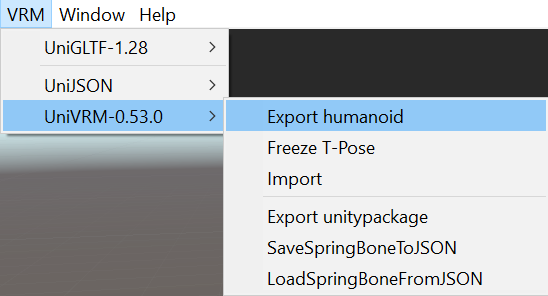
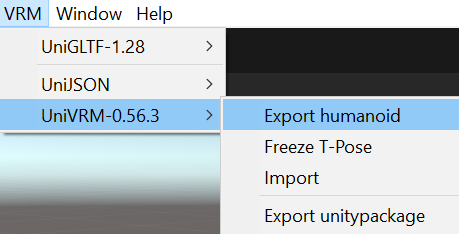
Update UniVRM install and images

diff --git a/content/en/docs/univrm/univrm_install.md b/content/en/docs/univrm/univrm_install.md
@@ -8,42 +8,53 @@ weight: 1
 
 ## Unity Version
 
-UniVRM supports Unity5.6 and later versions.
+Starting from `UniVRM-0.56`, UniVRM supports `Unity-2018.4LTS+` `.Net4.x`.
 
-## Installation
+To install UniVRM with Unity Package Manager, please refer to [Install UniVRM with UPM](../univrm_upm)
 
-Download the latest unitypackage (UniVRM-0.XX) from [UniVRM/releases](https://github.com/vrm-c/UniVRM/releases) and import it into the current project (``Assets -> Import Package -> Custom Package``). The imported files will be in ``../Assets/VRM``. **To update UniVRM to a newer version, deleting the previously created VRM folder before package import is recommended**.
+## unitypackage
 
-|{{< img src="images/vrm/package_import.png" alt="package_import" >}}|
+Get unity package in https://github.com/vrm-c/UniVRM/releases.
+
+The package name will look like this: `UniVRM-0.XX.X_XXXX.unitypackage`
+
+## Before Installation
+
+* Create a new Unity project (`Unity-2018.4LTS+`)
+* Show Console: click `clear` button on the upper-left of the window to see if any error message (in red) left before installation.
+
+{{< img src="images/vrm/show_console.jpg"  width="500" alt="show console">}}
+
+{{< img src="images/vrm/clear_console.jpg" width="500" alt="clear console" >}}
+<hr>
+
+* Go to `Linear``ProjectSettings` - `Player` - `Other Settings` - `Rendering` - `ColorSpace` and set `ColorSpace` to `Linear` (recommended setting)
+
+{{< img src="images/vrm/linear_setting.jpg" width="600" alt="linear setting">}}
+
+### Install UniVRM in an Existing Project
+
+* Go to `ProjectSettings` - `Player` - `Other Settings` - `Scripting Runtime Version` and set `Scripting Runtime Version` to `.Net4.X equivalent` (Unity 2018). 
+* If old UniVRM version exists, please delete `Assets/VRM` before installation
+
+## Import unitypackage
+
+Go to `Assets` - `Import Package` - `Custom Package` and select `UniVRM-0.XX.X_XXXX.unitypackage`.
+
+The two folders: `Assets/VRM` and `Assets/VRMShaders` will be imported into the Unity project.
+
+|{{< img src="images/vrm/package_import.png" width="350" alt="package_import" >}}|
 |-----|
-|Import UniVRM package|
+|Import Unity Package|
 
-## Stop AssetPostProcessor
+## Check if UniVRM has been imported successfully
 
-The importer of UniVRM is implemented with``AssetPostprocessor``.
-There may be cases where AssetPostProcessor is inconvenient when including UniVRM in Unity project. We have added a symbol to invalidate this (from v0.39).
+if UniVRM import successes, VRM menu will be displayed on the top:
 
-Set``VRM_STOP_ASSETPOSTPROCESSOR``in``Edit - ProjectSettings - Player``--->``Other Settings - Scripting Define Symbols``.
+{{< img src="images/vrm/vrm_menu.jpg" alt="vrm menu" >}}
+<hr>
 
-|{{< img src="images/vrm/stop_assetpostprocessor.png" >}}|
-|-----|
-|Stop AssetPostProcessor|
+If menu does not show up:
 
-## Shader option
-
-|{{< img src="images/vrm/shaders.png" >}}|
-|-----|
-|The shaders provided in UniVRM|
-
-## Shader preloading setting
-
-**There is no need to move shader into Resources folder (VRM/Resources) since v0.36.**
-
-Please set up project as follows:
-
-|{{< img src="images/vrm/graphics_setting.png" >}}|
-|-----|
-|Editor - Project Settings - Graphics - Shader preloading|
-
-|{{< img src="images/vrm/shader_preloading.png" >}}|
-|-----|
+* Check if `.Net4.X equivalent` has been selected (`ProjectSettings` - `Player` - `Other Settings` - `Scripting Runtime Version`)
+* Open Console and check if any error (message in red) occurs

diff --git a/content/ja/docs/univrm/univrm_upm.md b/content/ja/docs/univrm/univrm_upm.md
@@ -1,0 +1,81 @@
+---
+title: "UPMでUniVRMをインストールする"
+date: 2020-07-08T11:42:13+09:00
+url: "/univrm/univrm_upm/"
+weight: 3
+---
+
+## UniVRM-0.XX の UnityPackage
+
+UniVRM-0.56から、 UniVRMはUnityPackageManagerでインポートできるようになった。
+
+github リポジトリのルート以外に `package.json` を配置する機能を使っているので、
+`Unity 2019.3.4f1以降` が必要です。
+
+### 導入方法
+
+UnityPackageManagerのWindow
+
+{{< img src="images/vrm10/menu_packagemanager.jpg" >}}
+<hr>
+
+`add package from git URL`
+
+{{< img src="images/vrm10/from_git.jpg" >}}
+<hr>
+
+新しいUniVRMバージョンがリリースされる時に、このバージョンに関連するgit urlsを公開します。
+
+たとえば、[v0.56.3](https://github.com/vrm-c/UniVRM/releases/tag/v0.56.3) のgit urlは次のとおりです：
+
+* `https://github.com/vrm-c/UniVRM.git?path=/Assets/VRMShaders#v0.56.3`
+* `https://github.com/vrm-c/UniVRM.git?path=/Assets/VRM#v0.56.3` => VRMShaders に依存
+
+パッケージ同士の依存関係を自動でダウンロードしてくれる機能は無いので、以上の git url を順に追加してください。
+
+バージョン番号を変更することで、お好きなバージョンに切り替えることができます。
+
+#### もしくは、 Packages/manifest.json に直接コピーペーストする。
+
+以下の内容を追記してください（[v0.56.3](https://github.com/vrm-c/UniVRM/releases/tag/v0.56.3)の例)。
+
+```json
+{
+  "dependencies": {
+    // ...
+    "com.vrmc.vrmshaders": "https://github.com/vrm-c/UniVRM.git?path=/Assets/VRMShaders#v0.56.3",
+    "com.vrmc.univrm": "https://github.com/vrm-c/UniVRM.git?path=/Assets/VRM#v0.56.3",
+    // ...
+}
+```
+
+以下の "lock" はUnityが自動で更新するので、編集する必要はありません。
+
+```json
+  "lock": {
+    "com.vrmc.vrmshaders": {
+      "revision": "v0.56.3",
+      "hash": "3b68eb7f99bfe78ea9c83ea75511282ef1782f1a"
+    },
+    "com.vrmc.univrm": {
+      "revision": "v0.56.3",
+      "hash": "3b68eb7f99bfe78ea9c83ea75511282ef1782f1a"
+    }
+  }
+```
+
+ただし、特定のコミットに切り替える場合は、ハッシュ値を手動で変更できます。
+
+もしくは`dependencies`に特定のコミットに付きます。
+
+例：
+
+```json
+{
+  "dependencies": {
+    // ...
+    "com.vrmc.vrmshaders": "https://github.com/vrm-c/UniVRM.git?path=/Assets/VRMShaders#155acf354735288db0335878179f483901541851",
+    "com.vrmc.univrm": "https://github.com/vrm-c/UniVRM.git?path=/Assets/VRM#155acf354735288db0335878179f483901541851",
+    // ...
+}
+```

diff --git a/content/en/docs/univrm/univrm_upm.md b/content/en/docs/univrm/univrm_upm.md
@@ -1,0 +1,80 @@
+---
+title: "Install UniVRM with UPM"
+date: 2020-07-07T18:33:59+09:00
+url: "/en/univrm/univrm_upm/"
+weight: 3
+---
+
+## UniVRM-0.XX's UnityPackage
+
+Starting from UniVRM-0.56, UniVRM can be imported with Unity Package Manager.
+
+Requirement: `Unity 2019.3.4f1 or later version`.
+
+### How to use
+
+To open UPM, go to `Windows` -> `Package Manager`:
+
+{{< img src="images/vrm10/menu_packagemanager.jpg" >}}
+<hr>
+
+Select `add package from git URL` to import the target package specified by its git url.
+
+{{< img src="images/vrm10/from_git.jpg" >}}
+<hr>
+
+Whenever a new UniVRM version comes out, we will post git urls associated with this release. 
+
+For example, the git urls of [v0.56.3](https://github.com/vrm-c/UniVRM/releases/tag/v0.56.3) are:
+
+* `https://github.com/vrm-c/UniVRM.git?path=/Assets/VRMShaders#v0.56.3`
+* `https://github.com/vrm-c/UniVRM.git?path=/Assets/VRM#v0.56.3` => depends on VRMShaders
+
+Since there is no function that can automatically download the dependencies between packages, please add above git urls in order.
+
+By changing the version number, You can switch to different version as you wish.
+
+#### Add dependencies in Packages/manifest.json
+
+An alternative way is to add necessary dependencies right in Packages/manifest.json. Please copy and paste the following contents (example of [v0.56.3](https://github.com/vrm-c/UniVRM/releases/tag/v0.56.3)):
+
+```json
+{
+  "dependencies": {
+    // ...
+    "com.vrmc.vrmshaders": "https://github.com/vrm-c/UniVRM.git?path=/Assets/VRMShaders#v0.56.3",
+    "com.vrmc.univrm": "https://github.com/vrm-c/UniVRM.git?path=/Assets/VRM#v0.56.3",
+    // ...
+}
+```
+
+The hash values in `lock` can be updated automatically by Unity, there is no need to manually change them.
+
+However, if you want to switch to a specific commit, you can manually change the hash value.
+
+```json
+  "lock": {
+    "com.vrmc.vrmshaders": {
+      "revision": "v0.56.3",
+      "hash": "3b68eb7f99bfe78ea9c83ea75511282ef1782f1a"
+    },
+    "com.vrmc.univrm": {
+      "revision": "v0.56.3",
+      "hash": "3b68eb7f99bfe78ea9c83ea75511282ef1782f1a"
+    }
+  }
+```
+
+However, if you want to switch to the specific commit, you can manually change the hash value or append the specific commit in `dependencies`.
+
+Example:
+
+```json
+{
+  "dependencies": {
+    // ...
+    "com.vrmc.vrmshaders": "https://github.com/vrm-c/UniVRM.git?path=/Assets/VRMShaders#155acf354735288db0335878179f483901541851",
+    "com.vrmc.univrm": "https://github.com/vrm-c/UniVRM.git?path=/Assets/VRM#155acf354735288db0335878179f483901541851",
+    // ...
+}
+```

diff --git a/content/en/docs/vrm/how_to_make_vrm.md b/content/en/docs/vrm/how_to_make_vrm.md
@@ -61,7 +61,7 @@ We can see the Jaw and Eyes are assigned by the wrong components. As mentioned a
 ### 4. Adjust the model data and export it as VRM from menu（normalization processing）
 {{< img src="images/vrm/alicia_scene.png" >}}
 
-Now clcik the model in the Hierarchy window, you shall see sub-components attached to this model. Please click any of them. We are going to check and adjust the items listed below:
+Now click the model in the Hierarchy window, you shall see sub-components attached to this model. Please click any of them. We are going to check and adjust the items listed below:
 
 {{< img src="images/vrm/initial_position_rotation.jpg" width="800" height="450" alt="initial_position_rotation" >}}
 
@@ -89,13 +89,13 @@ Note that if the materials are not assigned or you want to change them, click th
 
 {{< img src="images/vrm/MToonMaterialSetting.png" width="700" height="800" alt="MToonMaterialSetting" >}}
 
-After adjustments are completed, select the model in `Hierarchy` window and export it from``VRM -> UniVRM-0.53.0 -> Export humanoid``.
+After adjustments are completed, select the model in `Hierarchy` window and export it from``VRM -> UniVRM-0.56.0 -> Export humanoid``.
 
 {{< img src="images/vrm/UniVRMExportHumanoid.png" width="400" height="225" alt="UniVRMExportHumanoid">}}
 
 Enter your name in the `Author` field and click the `Export` button. The VRM file can then be created. To easily track this file, it is recommended to name the file like this: "Model_Name_Normalized.vrm". The file will be saved in the `Assets` folder by default.
 
-{{< img src="images/vrm/VRMExporter.png" width="250" height="450" alt="VRMExporter">}}
+{{< img src="images/vrm/export_dialog_56.jpg" width="600"alt="vrm export" >}}
 
 * Force T Pose
     * Force the model pose to become [T-Pose](../dev/univrm-0.xx/vrm/vrm_tpose/) before removing rotation / scaling.
@@ -197,7 +197,7 @@ To test the model's expressions, fairly simple test scripts "AIUEO" and "Blinker
 ### 8. Export the adjusted VRM model
 {{< img src="images/vrm/UniVRMExportHumanoid.png" width="400" height="225" alt="UniVRMExportHumanoid">}}
 
-After the adjustment is completed, select the model data in `Hierarchy` and again export the model from``VRM -> UniVRM-0.53.0 -> Export humanoid``.
+After the adjustment is completed, select the model data in `Hierarchy` and again export the model from``VRM -> UniVRM-0.56.0 -> Export humanoid``.
 
 This time **please do not check "Force T Pose" and "Pose Freeze"**. They are only used for the first time (normalization processing). Name the file and export the adjusted VRM model.
 

diff --git a/content/ja/docs/univrm/univrm_install.md b/content/ja/docs/univrm/univrm_install.md
@@ -10,6 +10,8 @@ weight: 1
 `UniVRM-0.56` から
 Unity2018.4LTS以降 + `.Net4` 設定をサポートしています。
 
+UPMでUniVRMをインストールする場合は、[UPMでUniVRMをインストールする](../univrm_upm)ページをご覧ください。
+
 ## unitypackage の入手
 
 https://github.com/vrm-c/UniVRM/releases
@@ -23,13 +25,14 @@ https://github.com/vrm-c/UniVRM/releases
 * Unity2018.4LTS以降で新規のプロジェクトを作成します
 * Console を表示させます。左上の clear ボタンを推して、UniVRMを導入する前にエラー(赤いメッセージ)が無いことを確認してください
 
-{{< img src="images/vrm/show_console.jpg" alt="show console" >}}
+{{< img src="images/vrm/show_console.jpg"  width="500" alt="show console">}}
 
-{{< img src="images/vrm/clear_console.jpg" alt="clear console" >}}
+{{< img src="images/vrm/clear_console.jpg" width="500" alt="clear console" >}}
+<hr>
 
 * `ProjectSettings` - `Player` - `Other Settings` - `Rendering` - `ColorSpace` を `Linear` に設定します(推奨)
 
-{{< img src="images/vrm/linear_setting.jpg" alt="linear setting" >}}
+{{< img src="images/vrm/linear_setting.jpg" width="600" alt="linear setting">}}
 
 ### 既存のプロジェクトで作業する場合
 
@@ -44,7 +47,7 @@ https://github.com/vrm-c/UniVRM/releases
 
 `Assets/VRM` と `Assets/VRMShaders` の２つのフォルダに import されます。
 
-|{{< img src="images/vrm/package_import.png" alt="package_import" >}}|
+|{{< img src="images/vrm/package_import.png" width="350" alt="package_import" >}}|
 |-----|
 |UnityPackageをインポート|
 
@@ -53,6 +56,7 @@ https://github.com/vrm-c/UniVRM/releases
 VRM menu が表示されていれば動作しています。
 
 {{< img src="images/vrm/vrm_menu.jpg" alt="vrm menu" >}}
+<hr>
 
 menu が出てこない場合は、
 

diff --git a/content/en/docs/univrm/univrm_workflow.md b/content/en/docs/univrm/univrm_workflow.md
@@ -2,7 +2,7 @@
 title: "UniVRM workflow"
 date: 2018-04-16T16:30:00+09:00
 url: "/en/univrm/univrm_workflow/"
-weight: 2
+weight: 4
 ---
 
 ## Workflow
@@ -44,9 +44,9 @@ We can see the Jaw and Eyes are assigned by the wrong components. As mentioned a
 ## Export from menu
 |{{< img src="images/vrm/UniVRMExportHumanoid.png" width="400" height="225" alt="UniVRMExportHumanoid">}}|
 |-----|
-|In the Hierarchy window, if 3D model data with a setup-completed humanoid is selected, the `Export humanoid` option will become available (`VRM -> UniVRM-0.53.0 -> Export humanoid`). The file will be saved in the `Assets` folder by default.|
+|In the Hierarchy window, if 3D model data with a setup-completed humanoid is selected, the `Export humanoid` option will become available (`VRM -> UniVRM-0.56.0 -> Export humanoid`). The file will be saved in the `Assets` folder by default.|
 
-|{{< img src="images/vrm/VRMExporter.png" width="250" height="450" alt="VRMExporter">}}|
+|{{< img src="images/vrm/export_dialog_56.jpg" width="600"alt="vrm export" >}}|
 |-----|
 |Enter your name in the `Author` field and click the `Export` button.|
 

diff --git a/content/ja/docs/vrm/vrm_applications.md b/content/ja/docs/vrm/vrm_applications.md
@@ -44,6 +44,7 @@ weight: 4
 * [Luppet](https://luppet.appspot.com/)
 * [vear](https://apps.apple.com/jp/app/vear/id1490697369)
 * [CharWebCam](https://github.com/xelloss120/CharWebCam)
+* [VMagicMirror](https://malaybaku.github.io/VMagicMirror/)
 
 ##  メタバース
 
@@ -80,3 +81,4 @@ weight: 4
 * [AI4Animation](https://github.com/t-takasaka/AI4Animation/tree/master/AI4Animation/Assets/Demo/ARKit)
 * [Vスタンプ](https://yashinut.com/archives/vstamp_app.html)
 * [VRMLoaderUI](https://github.com/m2wasabi/VRMLoaderUI)
+* [TRACKING WORLD](http://deatrathias.net/TW/)

diff --git a/content/en/docs/vrm/vrm_applications.md b/content/en/docs/vrm/vrm_applications.md
@@ -44,6 +44,7 @@ weight: 4
 * [Luppet](https://luppet.appspot.com/)
 * [vear](https://apps.apple.com/jp/app/vear/id1490697369)
 * [CharWebCam](https://github.com/xelloss120/CharWebCam)
+* [VMagicMirror](https://malaybaku.github.io/VMagicMirror/en/)
 
 ##  Metaverse
 
@@ -80,3 +81,4 @@ weight: 4
 * [AI4Animation](https://github.com/t-takasaka/AI4Animation/tree/master/AI4Animation/Assets/Demo/ARKit)
 * [vstamp](https://yashinut.com/archives/vstamp_app.html)
 * [VRMLoaderUI](https://github.com/m2wasabi/VRMLoaderUI)
+* [TRACKING WORLD](http://deatrathias.net/TW/)

diff --git a/content/ja/docs/univrm/shaders/_index.md b/content/ja/docs/univrm/shaders/_index.md
@@ -2,7 +2,7 @@
 title: "UniVRMで使えるシェーダー"
 date: 2018-04-16T16:30:00+09:00
 url: /univrm/shaders/univrm_shaders/
-weight: 4
+weight: 6
 ---
 
 [UniVRM-0.44のマテリアル](../univrm_shaders_044/)

diff --git a/content/en/docs/univrm/shaders/_index.md b/content/en/docs/univrm/shaders/_index.md
@@ -2,7 +2,7 @@
 title: "Available shaders in UniVRM"
 date: 2018-04-16T16:30:00+09:00
 url: "/en/univrm/shaders/univrm_shaders/"
-weight: 4
+weight: 6
 ---
 
 [UniVRM-0.44 material](../univrm_shaders_044/) 
